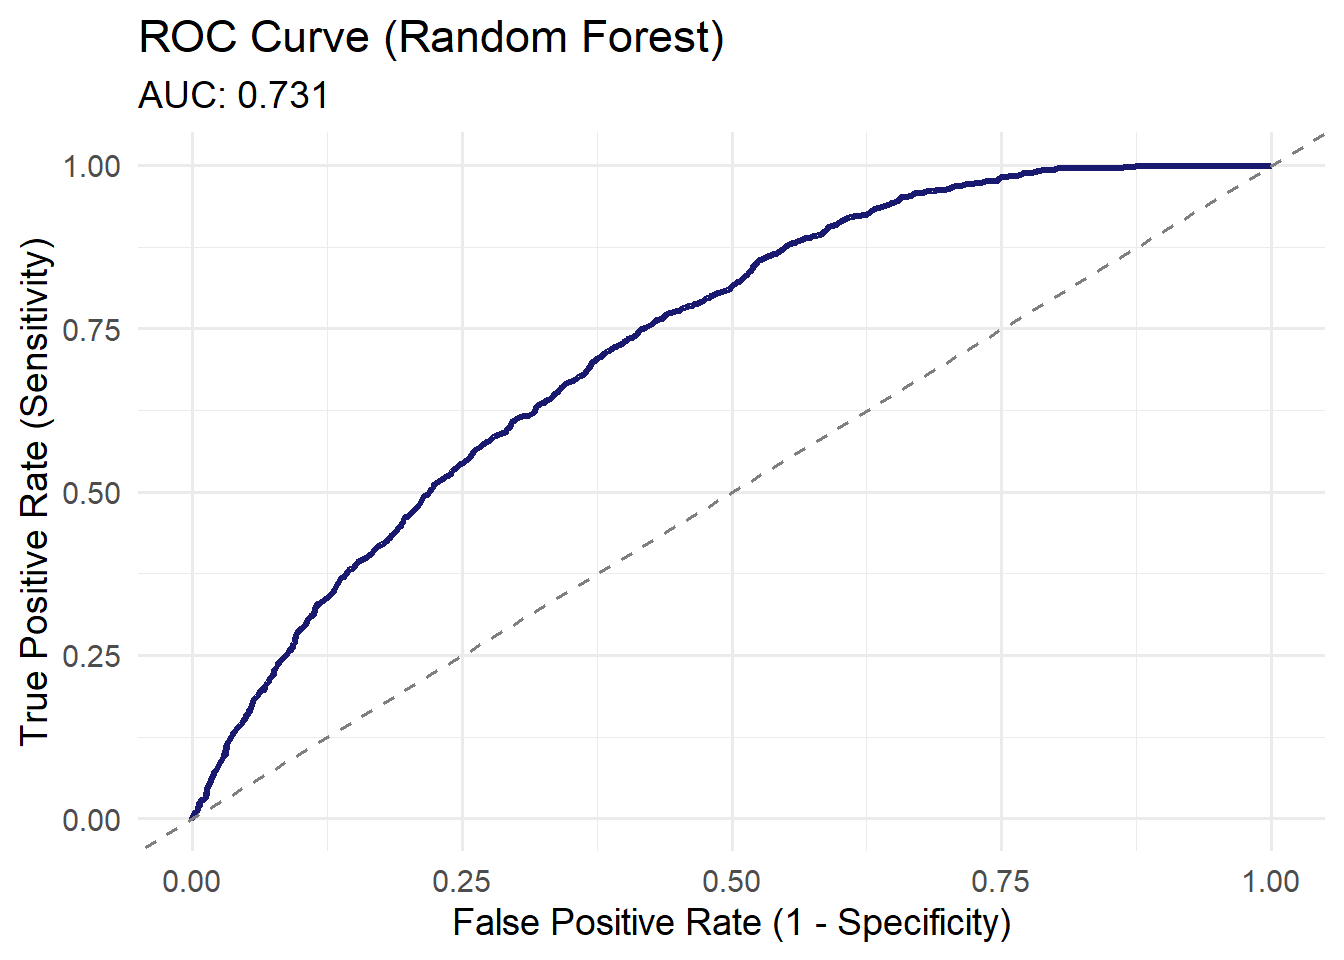
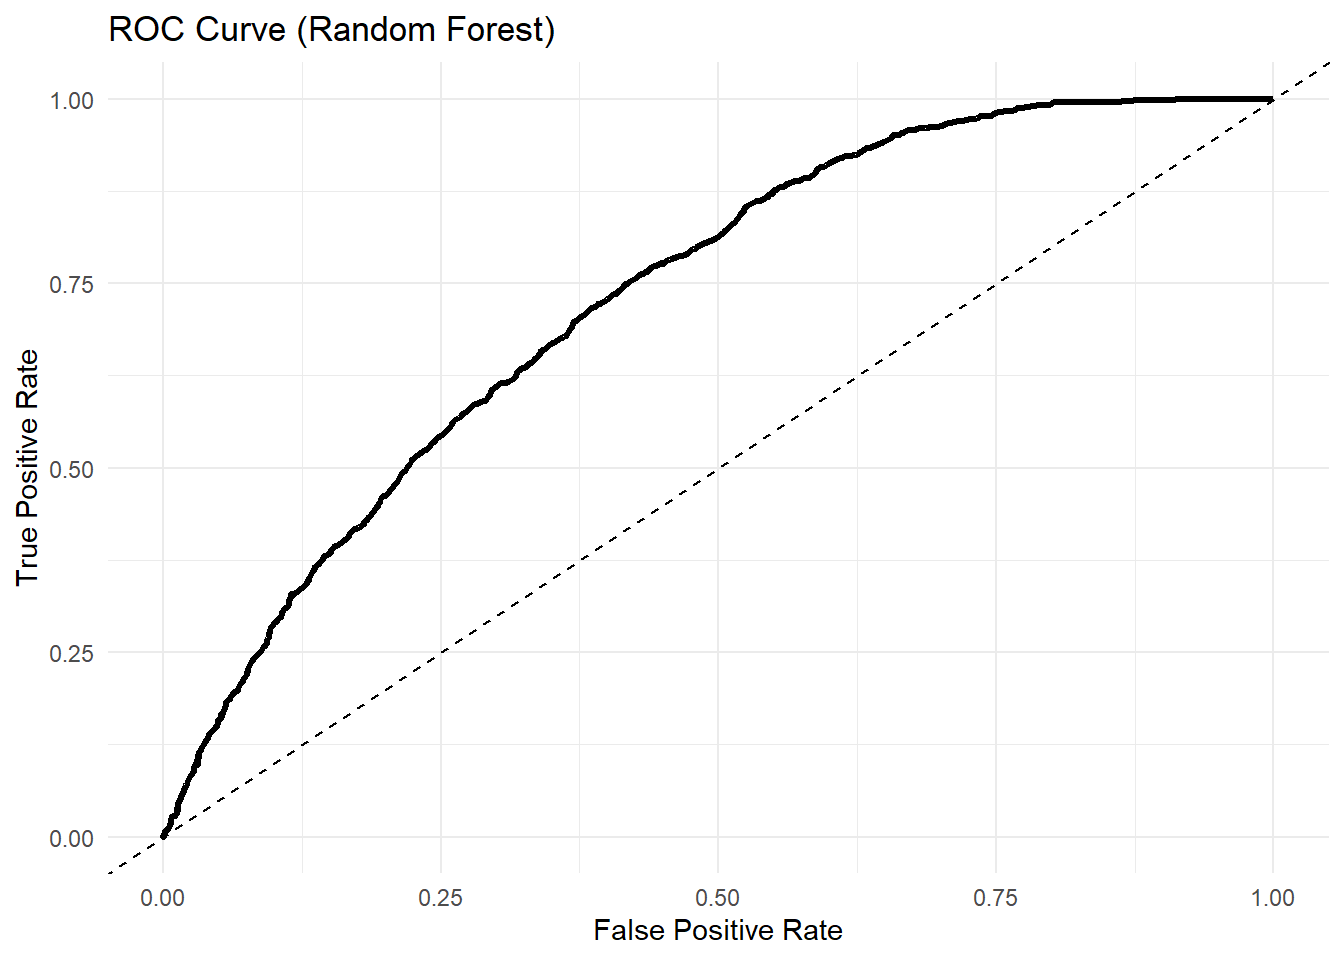
Removed duplicate figure.

diff --git a/docs/tidytuesday-exercise/tidytuesday-exercise.html b/docs/tidytuesday-exercise/tidytuesday-exercise.html
@@ -600,24 +600,26 @@ time  (1): time
 </div>
 </div>
 <div class="cell">
-<div class="code-copy-outer-scaffold"><div class="sourceCode cell-code" id="cb32"><pre class="sourceCode r code-with-copy"><code class="sourceCode r"><span id="cb32-1"><a href="#cb32-1" aria-hidden="true" tabindex="-1"></a><span class="co"># refit random forest with importance enabled</span></span>
-<span id="cb32-2"><a href="#cb32-2" aria-hidden="true" tabindex="-1"></a>rf_model <span class="ot">&lt;-</span> <span class="fu">rand_forest</span>() <span class="sc">%&gt;%</span></span>
-<span id="cb32-3"><a href="#cb32-3" aria-hidden="true" tabindex="-1"></a>  <span class="fu">set_engine</span>(<span class="st">"ranger"</span>, <span class="at">importance =</span> <span class="st">"impurity"</span>) <span class="sc">%&gt;%</span></span>
-<span id="cb32-4"><a href="#cb32-4" aria-hidden="true" tabindex="-1"></a>  <span class="fu">set_mode</span>(<span class="st">"classification"</span>)</span>
-<span id="cb32-5"><a href="#cb32-5" aria-hidden="true" tabindex="-1"></a></span>
-<span id="cb32-6"><a href="#cb32-6" aria-hidden="true" tabindex="-1"></a>wf_rf <span class="ot">&lt;-</span> <span class="fu">workflow</span>() <span class="sc">%&gt;%</span></span>
-<span id="cb32-7"><a href="#cb32-7" aria-hidden="true" tabindex="-1"></a>  <span class="fu">add_model</span>(rf_model) <span class="sc">%&gt;%</span></span>
-<span id="cb32-8"><a href="#cb32-8" aria-hidden="true" tabindex="-1"></a>  <span class="fu">add_recipe</span>(rec)</span>
-<span id="cb32-9"><a href="#cb32-9" aria-hidden="true" tabindex="-1"></a></span>
-<span id="cb32-10"><a href="#cb32-10" aria-hidden="true" tabindex="-1"></a>final_fit <span class="ot">&lt;-</span> <span class="fu">fit</span>(wf_rf, <span class="at">data =</span> train)</span>
+<div class="code-copy-outer-scaffold"><div class="sourceCode cell-code" id="cb32"><pre class="sourceCode r code-with-copy"><code class="sourceCode r"><span id="cb32-1"><a href="#cb32-1" aria-hidden="true" tabindex="-1"></a><span class="fu">library</span>(yardstick) </span>
+<span id="cb32-2"><a href="#cb32-2" aria-hidden="true" tabindex="-1"></a></span>
+<span id="cb32-3"><a href="#cb32-3" aria-hidden="true" tabindex="-1"></a><span class="co"># refit random forest with importance enabled</span></span>
+<span id="cb32-4"><a href="#cb32-4" aria-hidden="true" tabindex="-1"></a>rf_model <span class="ot">&lt;-</span> <span class="fu">rand_forest</span>() <span class="sc">%&gt;%</span></span>
+<span id="cb32-5"><a href="#cb32-5" aria-hidden="true" tabindex="-1"></a>  <span class="fu">set_engine</span>(<span class="st">"ranger"</span>, <span class="at">importance =</span> <span class="st">"impurity"</span>) <span class="sc">%&gt;%</span></span>
+<span id="cb32-6"><a href="#cb32-6" aria-hidden="true" tabindex="-1"></a>  <span class="fu">set_mode</span>(<span class="st">"classification"</span>)</span>
+<span id="cb32-7"><a href="#cb32-7" aria-hidden="true" tabindex="-1"></a></span>
+<span id="cb32-8"><a href="#cb32-8" aria-hidden="true" tabindex="-1"></a>wf_rf <span class="ot">&lt;-</span> <span class="fu">workflow</span>() <span class="sc">%&gt;%</span></span>
+<span id="cb32-9"><a href="#cb32-9" aria-hidden="true" tabindex="-1"></a>  <span class="fu">add_model</span>(rf_model) <span class="sc">%&gt;%</span></span>
+<span id="cb32-10"><a href="#cb32-10" aria-hidden="true" tabindex="-1"></a>  <span class="fu">add_recipe</span>(rec)</span>
 <span id="cb32-11"><a href="#cb32-11" aria-hidden="true" tabindex="-1"></a></span>
-<span id="cb32-12"><a href="#cb32-12" aria-hidden="true" tabindex="-1"></a><span class="co"># predictions</span></span>
-<span id="cb32-13"><a href="#cb32-13" aria-hidden="true" tabindex="-1"></a>preds <span class="ot">&lt;-</span> <span class="fu">predict</span>(final_fit, test, <span class="at">type =</span> <span class="st">"prob"</span>) <span class="sc">%&gt;%</span></span>
-<span id="cb32-14"><a href="#cb32-14" aria-hidden="true" tabindex="-1"></a>  <span class="fu">bind_cols</span>(<span class="fu">predict</span>(final_fit, test)) <span class="sc">%&gt;%</span></span>
-<span id="cb32-15"><a href="#cb32-15" aria-hidden="true" tabindex="-1"></a>  <span class="fu">bind_cols</span>(test)</span>
-<span id="cb32-16"><a href="#cb32-16" aria-hidden="true" tabindex="-1"></a></span>
-<span id="cb32-17"><a href="#cb32-17" aria-hidden="true" tabindex="-1"></a><span class="co"># confusion matrix</span></span>
-<span id="cb32-18"><a href="#cb32-18" aria-hidden="true" tabindex="-1"></a><span class="fu">conf_mat</span>(preds, <span class="at">truth =</span> following_ship, <span class="at">estimate =</span> .pred_class)</span></code></pre></div><button title="Copy to Clipboard" class="code-copy-button"><i class="bi"></i></button></div>
+<span id="cb32-12"><a href="#cb32-12" aria-hidden="true" tabindex="-1"></a>final_fit <span class="ot">&lt;-</span> <span class="fu">fit</span>(wf_rf, <span class="at">data =</span> train)</span>
+<span id="cb32-13"><a href="#cb32-13" aria-hidden="true" tabindex="-1"></a></span>
+<span id="cb32-14"><a href="#cb32-14" aria-hidden="true" tabindex="-1"></a><span class="co"># predictions</span></span>
+<span id="cb32-15"><a href="#cb32-15" aria-hidden="true" tabindex="-1"></a>preds <span class="ot">&lt;-</span> <span class="fu">predict</span>(final_fit, test, <span class="at">type =</span> <span class="st">"prob"</span>) <span class="sc">%&gt;%</span></span>
+<span id="cb32-16"><a href="#cb32-16" aria-hidden="true" tabindex="-1"></a>  <span class="fu">bind_cols</span>(<span class="fu">predict</span>(final_fit, test)) <span class="sc">%&gt;%</span></span>
+<span id="cb32-17"><a href="#cb32-17" aria-hidden="true" tabindex="-1"></a>  <span class="fu">bind_cols</span>(test)</span>
+<span id="cb32-18"><a href="#cb32-18" aria-hidden="true" tabindex="-1"></a></span>
+<span id="cb32-19"><a href="#cb32-19" aria-hidden="true" tabindex="-1"></a><span class="co"># confusion matrix</span></span>
+<span id="cb32-20"><a href="#cb32-20" aria-hidden="true" tabindex="-1"></a><span class="fu">conf_mat</span>(preds, <span class="at">truth =</span> following_ship, <span class="at">estimate =</span> .pred_class)</span></code></pre></div><button title="Copy to Clipboard" class="code-copy-button"><i class="bi"></i></button></div>
 <div class="cell-output cell-output-stdout">
 <pre><code>          Truth
 Prediction    0    1
@@ -625,18 +627,18 @@ Prediction    0    1
          1  729 1255</code></pre>
 </div>
 <div class="code-copy-outer-scaffold"><div class="sourceCode cell-code" id="cb34"><pre class="sourceCode r code-with-copy"><code class="sourceCode r"><span id="cb34-1"><a href="#cb34-1" aria-hidden="true" tabindex="-1"></a><span class="co"># ROC curve</span></span>
-<span id="cb34-2"><a href="#cb34-2" aria-hidden="true" tabindex="-1"></a>roc_df <span class="ot">&lt;-</span> <span class="fu">roc_curve</span>(preds, <span class="at">truth =</span> following_ship, .pred_1, <span class="at">event_level =</span> <span class="st">"second"</span>)</span>
-<span id="cb34-3"><a href="#cb34-3" aria-hidden="true" tabindex="-1"></a></span>
-<span id="cb34-4"><a href="#cb34-4" aria-hidden="true" tabindex="-1"></a><span class="fu">ggplot</span>(roc_df, <span class="fu">aes</span>(<span class="at">x =</span> <span class="dv">1</span> <span class="sc">-</span> specificity, <span class="at">y =</span> sensitivity)) <span class="sc">+</span></span>
-<span id="cb34-5"><a href="#cb34-5" aria-hidden="true" tabindex="-1"></a>  <span class="fu">geom_line</span>(<span class="at">linewidth =</span> <span class="fl">1.2</span>, <span class="at">color =</span> <span class="st">"midnightblue"</span>) <span class="sc">+</span></span>
-<span id="cb34-6"><a href="#cb34-6" aria-hidden="true" tabindex="-1"></a>  <span class="fu">geom_abline</span>(<span class="at">linetype =</span> <span class="st">"dashed"</span>, <span class="at">color =</span> <span class="st">"gray50"</span>) <span class="sc">+</span></span>
-<span id="cb34-7"><a href="#cb34-7" aria-hidden="true" tabindex="-1"></a>  <span class="fu">labs</span>(</span>
-<span id="cb34-8"><a href="#cb34-8" aria-hidden="true" tabindex="-1"></a>    <span class="at">title =</span> <span class="st">"ROC Curve (Random Forest)"</span>,</span>
-<span id="cb34-9"><a href="#cb34-9" aria-hidden="true" tabindex="-1"></a>    <span class="at">subtitle =</span> <span class="fu">paste0</span>(<span class="st">"AUC: "</span>, <span class="fu">round</span>(<span class="fu">roc_auc</span>(preds, <span class="at">truth =</span> following_ship, .pred_1, <span class="at">event_level =</span> <span class="st">"second"</span>)<span class="sc">$</span>.estimate, <span class="dv">3</span>)),</span>
-<span id="cb34-10"><a href="#cb34-10" aria-hidden="true" tabindex="-1"></a>    <span class="at">x =</span> <span class="st">"False Positive Rate (1 - Specificity)"</span>,</span>
-<span id="cb34-11"><a href="#cb34-11" aria-hidden="true" tabindex="-1"></a>    <span class="at">y =</span> <span class="st">"True Positive Rate (Sensitivity)"</span></span>
+<span id="cb34-2"><a href="#cb34-2" aria-hidden="true" tabindex="-1"></a>roc_df <span class="ot">&lt;-</span> preds <span class="sc">%&gt;%</span></span>
+<span id="cb34-3"><a href="#cb34-3" aria-hidden="true" tabindex="-1"></a>  <span class="fu">roc_curve</span>(<span class="at">truth =</span> following_ship, .pred_1, <span class="at">event_level =</span> <span class="st">"second"</span>)</span>
+<span id="cb34-4"><a href="#cb34-4" aria-hidden="true" tabindex="-1"></a></span>
+<span id="cb34-5"><a href="#cb34-5" aria-hidden="true" tabindex="-1"></a><span class="fu">ggplot</span>(roc_df, <span class="fu">aes</span>(<span class="at">x =</span> <span class="dv">1</span> <span class="sc">-</span> specificity, <span class="at">y =</span> sensitivity)) <span class="sc">+</span></span>
+<span id="cb34-6"><a href="#cb34-6" aria-hidden="true" tabindex="-1"></a>  <span class="fu">geom_line</span>(<span class="at">linewidth =</span> <span class="fl">1.2</span>) <span class="sc">+</span></span>
+<span id="cb34-7"><a href="#cb34-7" aria-hidden="true" tabindex="-1"></a>  <span class="fu">geom_abline</span>(<span class="at">linetype =</span> <span class="st">"dashed"</span>) <span class="sc">+</span></span>
+<span id="cb34-8"><a href="#cb34-8" aria-hidden="true" tabindex="-1"></a>  <span class="fu">labs</span>(</span>
+<span id="cb34-9"><a href="#cb34-9" aria-hidden="true" tabindex="-1"></a>    <span class="at">title =</span> <span class="st">"ROC Curve (Random Forest)"</span>,</span>
+<span id="cb34-10"><a href="#cb34-10" aria-hidden="true" tabindex="-1"></a>    <span class="at">x =</span> <span class="st">"False Positive Rate"</span>,</span>
+<span id="cb34-11"><a href="#cb34-11" aria-hidden="true" tabindex="-1"></a>    <span class="at">y =</span> <span class="st">"True Positive Rate"</span></span>
 <span id="cb34-12"><a href="#cb34-12" aria-hidden="true" tabindex="-1"></a>  ) <span class="sc">+</span></span>
-<span id="cb34-13"><a href="#cb34-13" aria-hidden="true" tabindex="-1"></a>  <span class="fu">theme_minimal</span>(<span class="at">base_size =</span> <span class="dv">14</span>)</span></code></pre></div><button title="Copy to Clipboard" class="code-copy-button"><i class="bi"></i></button></div>
+<span id="cb34-13"><a href="#cb34-13" aria-hidden="true" tabindex="-1"></a>  <span class="fu">theme_minimal</span>()</span></code></pre></div><button title="Copy to Clipboard" class="code-copy-button"><i class="bi"></i></button></div>
 <div class="cell-output-display">
 <div>
 <figure class="figure">
@@ -682,70 +684,6 @@ Prediction    0    1
 <div>
 <figure class="figure">
 <p><img src="tidytuesday-exercise_files/figure-html/unnamed-chunk-8-2.png" class="img-fluid figure-img" width="672"></p>
-</figure>
-</div>
-</div>
-</div>
-<div class="cell">
-<div class="code-copy-outer-scaffold"><div class="sourceCode cell-code" id="cb40"><pre class="sourceCode r code-with-copy"><code class="sourceCode r"><span id="cb40-1"><a href="#cb40-1" aria-hidden="true" tabindex="-1"></a><span class="fu">library</span>(dplyr)</span>
-<span id="cb40-2"><a href="#cb40-2" aria-hidden="true" tabindex="-1"></a><span class="fu">library</span>(tidyr)</span>
-<span id="cb40-3"><a href="#cb40-3" aria-hidden="true" tabindex="-1"></a><span class="fu">library</span>(ggplot2)</span>
-<span id="cb40-4"><a href="#cb40-4" aria-hidden="true" tabindex="-1"></a><span class="fu">library</span>(patchwork)</span>
-<span id="cb40-5"><a href="#cb40-5" aria-hidden="true" tabindex="-1"></a></span>
-<span id="cb40-6"><a href="#cb40-6" aria-hidden="true" tabindex="-1"></a>df <span class="ot">&lt;-</span> data_clean <span class="sc">%&gt;%</span></span>
-<span id="cb40-7"><a href="#cb40-7" aria-hidden="true" tabindex="-1"></a>  <span class="fu">mutate</span>(<span class="at">following_ship =</span> <span class="fu">as.numeric</span>(<span class="fu">as.character</span>(following_ship)))</span>
-<span id="cb40-8"><a href="#cb40-8" aria-hidden="true" tabindex="-1"></a></span>
-<span id="cb40-9"><a href="#cb40-9" aria-hidden="true" tabindex="-1"></a><span class="co"># speed plot</span></span>
-<span id="cb40-10"><a href="#cb40-10" aria-hidden="true" tabindex="-1"></a>p1 <span class="ot">&lt;-</span> <span class="fu">ggplot</span>(df, <span class="fu">aes</span>(<span class="at">x =</span> speed, <span class="at">y =</span> following_ship)) <span class="sc">+</span></span>
-<span id="cb40-11"><a href="#cb40-11" aria-hidden="true" tabindex="-1"></a>  <span class="fu">geom_smooth</span>(</span>
-<span id="cb40-12"><a href="#cb40-12" aria-hidden="true" tabindex="-1"></a>    <span class="at">method =</span> <span class="st">"glm"</span>,</span>
-<span id="cb40-13"><a href="#cb40-13" aria-hidden="true" tabindex="-1"></a>    <span class="at">method.args =</span> <span class="fu">list</span>(<span class="at">family =</span> <span class="st">"binomial"</span>),</span>
-<span id="cb40-14"><a href="#cb40-14" aria-hidden="true" tabindex="-1"></a>    <span class="at">se =</span> <span class="cn">TRUE</span></span>
-<span id="cb40-15"><a href="#cb40-15" aria-hidden="true" tabindex="-1"></a>  ) <span class="sc">+</span></span>
-<span id="cb40-16"><a href="#cb40-16" aria-hidden="true" tabindex="-1"></a>  <span class="fu">labs</span>(<span class="at">title =</span> <span class="st">"Ship Speed"</span>, <span class="at">x =</span> <span class="st">"Speed"</span>, <span class="at">y =</span> <span class="st">"Probability"</span>) <span class="sc">+</span></span>
-<span id="cb40-17"><a href="#cb40-17" aria-hidden="true" tabindex="-1"></a>  <span class="fu">theme_minimal</span>()</span>
-<span id="cb40-18"><a href="#cb40-18" aria-hidden="true" tabindex="-1"></a></span>
-<span id="cb40-19"><a href="#cb40-19" aria-hidden="true" tabindex="-1"></a><span class="co"># categorical data only </span></span>
-<span id="cb40-20"><a href="#cb40-20" aria-hidden="true" tabindex="-1"></a>cat_df <span class="ot">&lt;-</span> df <span class="sc">%&gt;%</span></span>
-<span id="cb40-21"><a href="#cb40-21" aria-hidden="true" tabindex="-1"></a>  <span class="fu">mutate</span>(</span>
-<span id="cb40-22"><a href="#cb40-22" aria-hidden="true" tabindex="-1"></a>    <span class="at">wind_speed_class =</span> <span class="fu">as.character</span>(wind_speed_class),</span>
-<span id="cb40-23"><a href="#cb40-23" aria-hidden="true" tabindex="-1"></a>    <span class="at">sea_state_class =</span> <span class="fu">as.character</span>(sea_state_class)</span>
-<span id="cb40-24"><a href="#cb40-24" aria-hidden="true" tabindex="-1"></a>  ) <span class="sc">%&gt;%</span></span>
-<span id="cb40-25"><a href="#cb40-25" aria-hidden="true" tabindex="-1"></a>  <span class="fu">pivot_longer</span>(</span>
-<span id="cb40-26"><a href="#cb40-26" aria-hidden="true" tabindex="-1"></a>  <span class="at">cols =</span> <span class="fu">c</span>(wind_speed_class, sea_state_class),</span>
-<span id="cb40-27"><a href="#cb40-27" aria-hidden="true" tabindex="-1"></a>  <span class="at">names_to =</span> <span class="st">"variable"</span>,</span>
-<span id="cb40-28"><a href="#cb40-28" aria-hidden="true" tabindex="-1"></a>  <span class="at">values_to =</span> <span class="st">"value"</span></span>
-<span id="cb40-29"><a href="#cb40-29" aria-hidden="true" tabindex="-1"></a>) <span class="sc">%&gt;%</span></span>
-<span id="cb40-30"><a href="#cb40-30" aria-hidden="true" tabindex="-1"></a>  <span class="fu">mutate</span>(</span>
-<span id="cb40-31"><a href="#cb40-31" aria-hidden="true" tabindex="-1"></a>    <span class="at">variable =</span> <span class="fu">recode</span>(variable,</span>
-<span id="cb40-32"><a href="#cb40-32" aria-hidden="true" tabindex="-1"></a>      <span class="at">wind_speed_class =</span> <span class="st">"Wind Speed"</span>,</span>
-<span id="cb40-33"><a href="#cb40-33" aria-hidden="true" tabindex="-1"></a>      <span class="at">sea_state_class =</span> <span class="st">"Sea State"</span></span>
-<span id="cb40-34"><a href="#cb40-34" aria-hidden="true" tabindex="-1"></a>    ),</span>
-<span id="cb40-35"><a href="#cb40-35" aria-hidden="true" tabindex="-1"></a>    <span class="at">value =</span> <span class="fu">as.factor</span>(value)</span>
-<span id="cb40-36"><a href="#cb40-36" aria-hidden="true" tabindex="-1"></a>  ) <span class="sc">%&gt;%</span></span>
-<span id="cb40-37"><a href="#cb40-37" aria-hidden="true" tabindex="-1"></a>  <span class="fu">group_by</span>(variable, value) <span class="sc">%&gt;%</span></span>
-<span id="cb40-38"><a href="#cb40-38" aria-hidden="true" tabindex="-1"></a>  <span class="fu">summarise</span>(</span>
-<span id="cb40-39"><a href="#cb40-39" aria-hidden="true" tabindex="-1"></a>    <span class="at">prob_follow =</span> <span class="fu">mean</span>(following_ship),</span>
-<span id="cb40-40"><a href="#cb40-40" aria-hidden="true" tabindex="-1"></a>    <span class="at">se =</span> <span class="fu">sd</span>(following_ship) <span class="sc">/</span> <span class="fu">sqrt</span>(<span class="fu">n</span>()),</span>
-<span id="cb40-41"><a href="#cb40-41" aria-hidden="true" tabindex="-1"></a>    <span class="at">.groups =</span> <span class="st">"drop"</span></span>
-<span id="cb40-42"><a href="#cb40-42" aria-hidden="true" tabindex="-1"></a>  )</span>
-<span id="cb40-43"><a href="#cb40-43" aria-hidden="true" tabindex="-1"></a></span>
-<span id="cb40-44"><a href="#cb40-44" aria-hidden="true" tabindex="-1"></a>p2 <span class="ot">&lt;-</span> <span class="fu">ggplot</span>(cat_df, <span class="fu">aes</span>(<span class="at">x =</span> value, <span class="at">y =</span> prob_follow)) <span class="sc">+</span></span>
-<span id="cb40-45"><a href="#cb40-45" aria-hidden="true" tabindex="-1"></a>  <span class="fu">geom_point</span>(<span class="at">size =</span> <span class="dv">3</span>) <span class="sc">+</span></span>
-<span id="cb40-46"><a href="#cb40-46" aria-hidden="true" tabindex="-1"></a>  <span class="fu">geom_errorbar</span>(<span class="fu">aes</span>(<span class="at">ymin =</span> prob_follow <span class="sc">-</span> se, <span class="at">ymax =</span> prob_follow <span class="sc">+</span> se), <span class="at">width =</span> <span class="fl">0.2</span>) <span class="sc">+</span></span>
-<span id="cb40-47"><a href="#cb40-47" aria-hidden="true" tabindex="-1"></a>  <span class="fu">facet_wrap</span>(<span class="sc">~</span>variable, <span class="at">scales =</span> <span class="st">"free_x"</span>) <span class="sc">+</span></span>
-<span id="cb40-48"><a href="#cb40-48" aria-hidden="true" tabindex="-1"></a>  <span class="fu">labs</span>(<span class="at">title =</span> <span class="st">"Environmental Conditions"</span>, <span class="at">x =</span> <span class="st">"Condition"</span>, <span class="at">y =</span> <span class="st">"Probability"</span>) <span class="sc">+</span></span>
-<span id="cb40-49"><a href="#cb40-49" aria-hidden="true" tabindex="-1"></a>  <span class="fu">theme_minimal</span>() <span class="sc">+</span></span>
-<span id="cb40-50"><a href="#cb40-50" aria-hidden="true" tabindex="-1"></a>  <span class="fu">theme</span>(<span class="at">axis.text.x =</span> <span class="fu">element_text</span>(<span class="at">angle =</span> <span class="dv">45</span>, <span class="at">hjust =</span> <span class="dv">1</span>))</span>
-<span id="cb40-51"><a href="#cb40-51" aria-hidden="true" tabindex="-1"></a></span>
-<span id="cb40-52"><a href="#cb40-52" aria-hidden="true" tabindex="-1"></a>p1 <span class="sc">/</span> p2</span></code></pre></div><button title="Copy to Clipboard" class="code-copy-button"><i class="bi"></i></button></div>
-<div class="cell-output cell-output-stderr">
-<pre><code>`geom_smooth()` using formula = 'y ~ x'</code></pre>
-</div>
-<div class="cell-output-display">
-<div>
-<figure class="figure">
-<p><img src="tidytuesday-exercise_files/figure-html/unnamed-chunk-9-1.png" class="img-fluid figure-img" width="672"></p>
 </figure>
 </div>
 </div>
